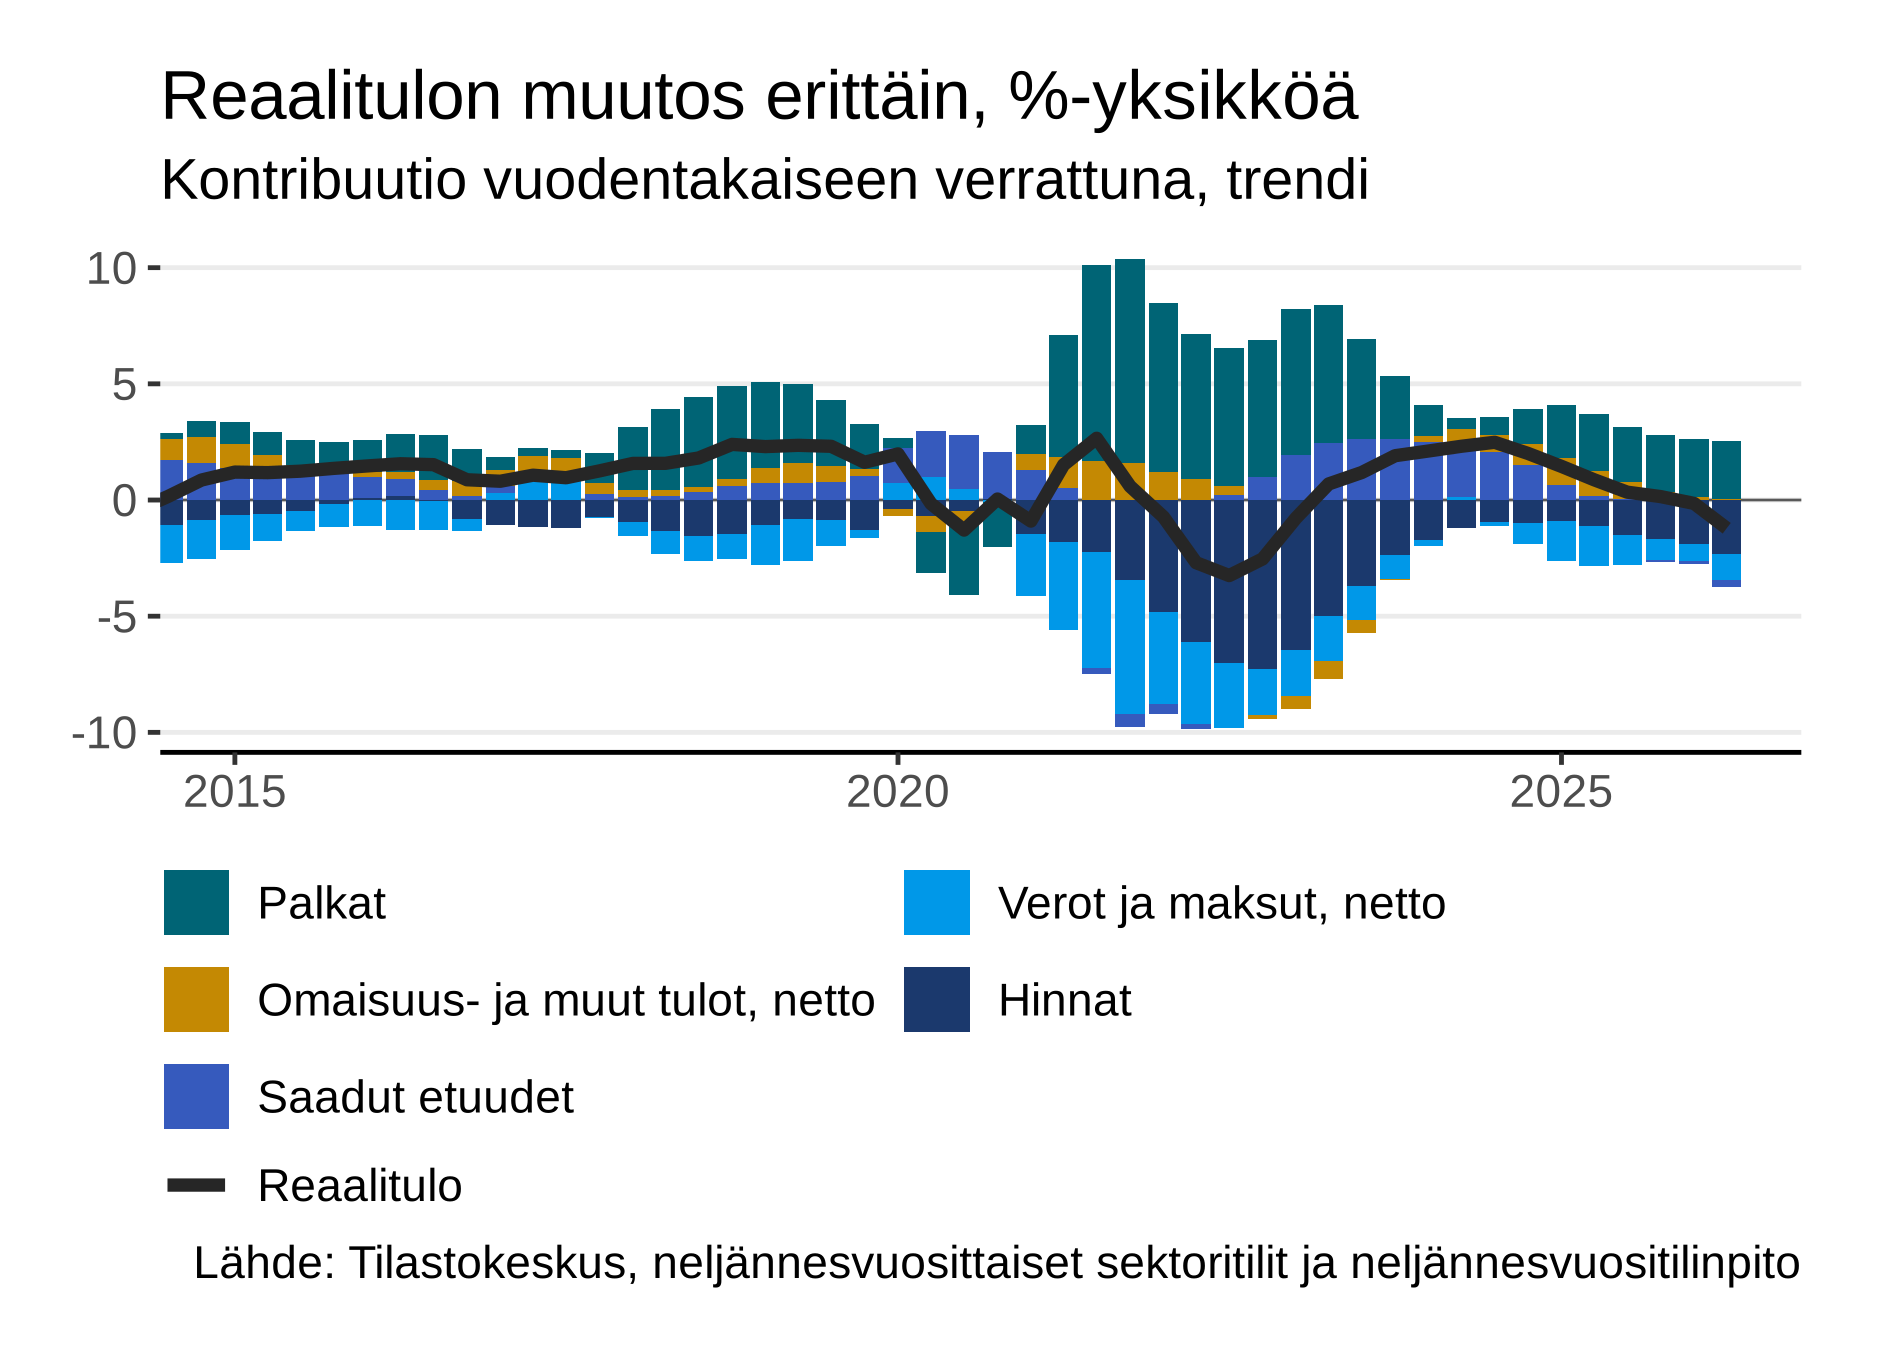
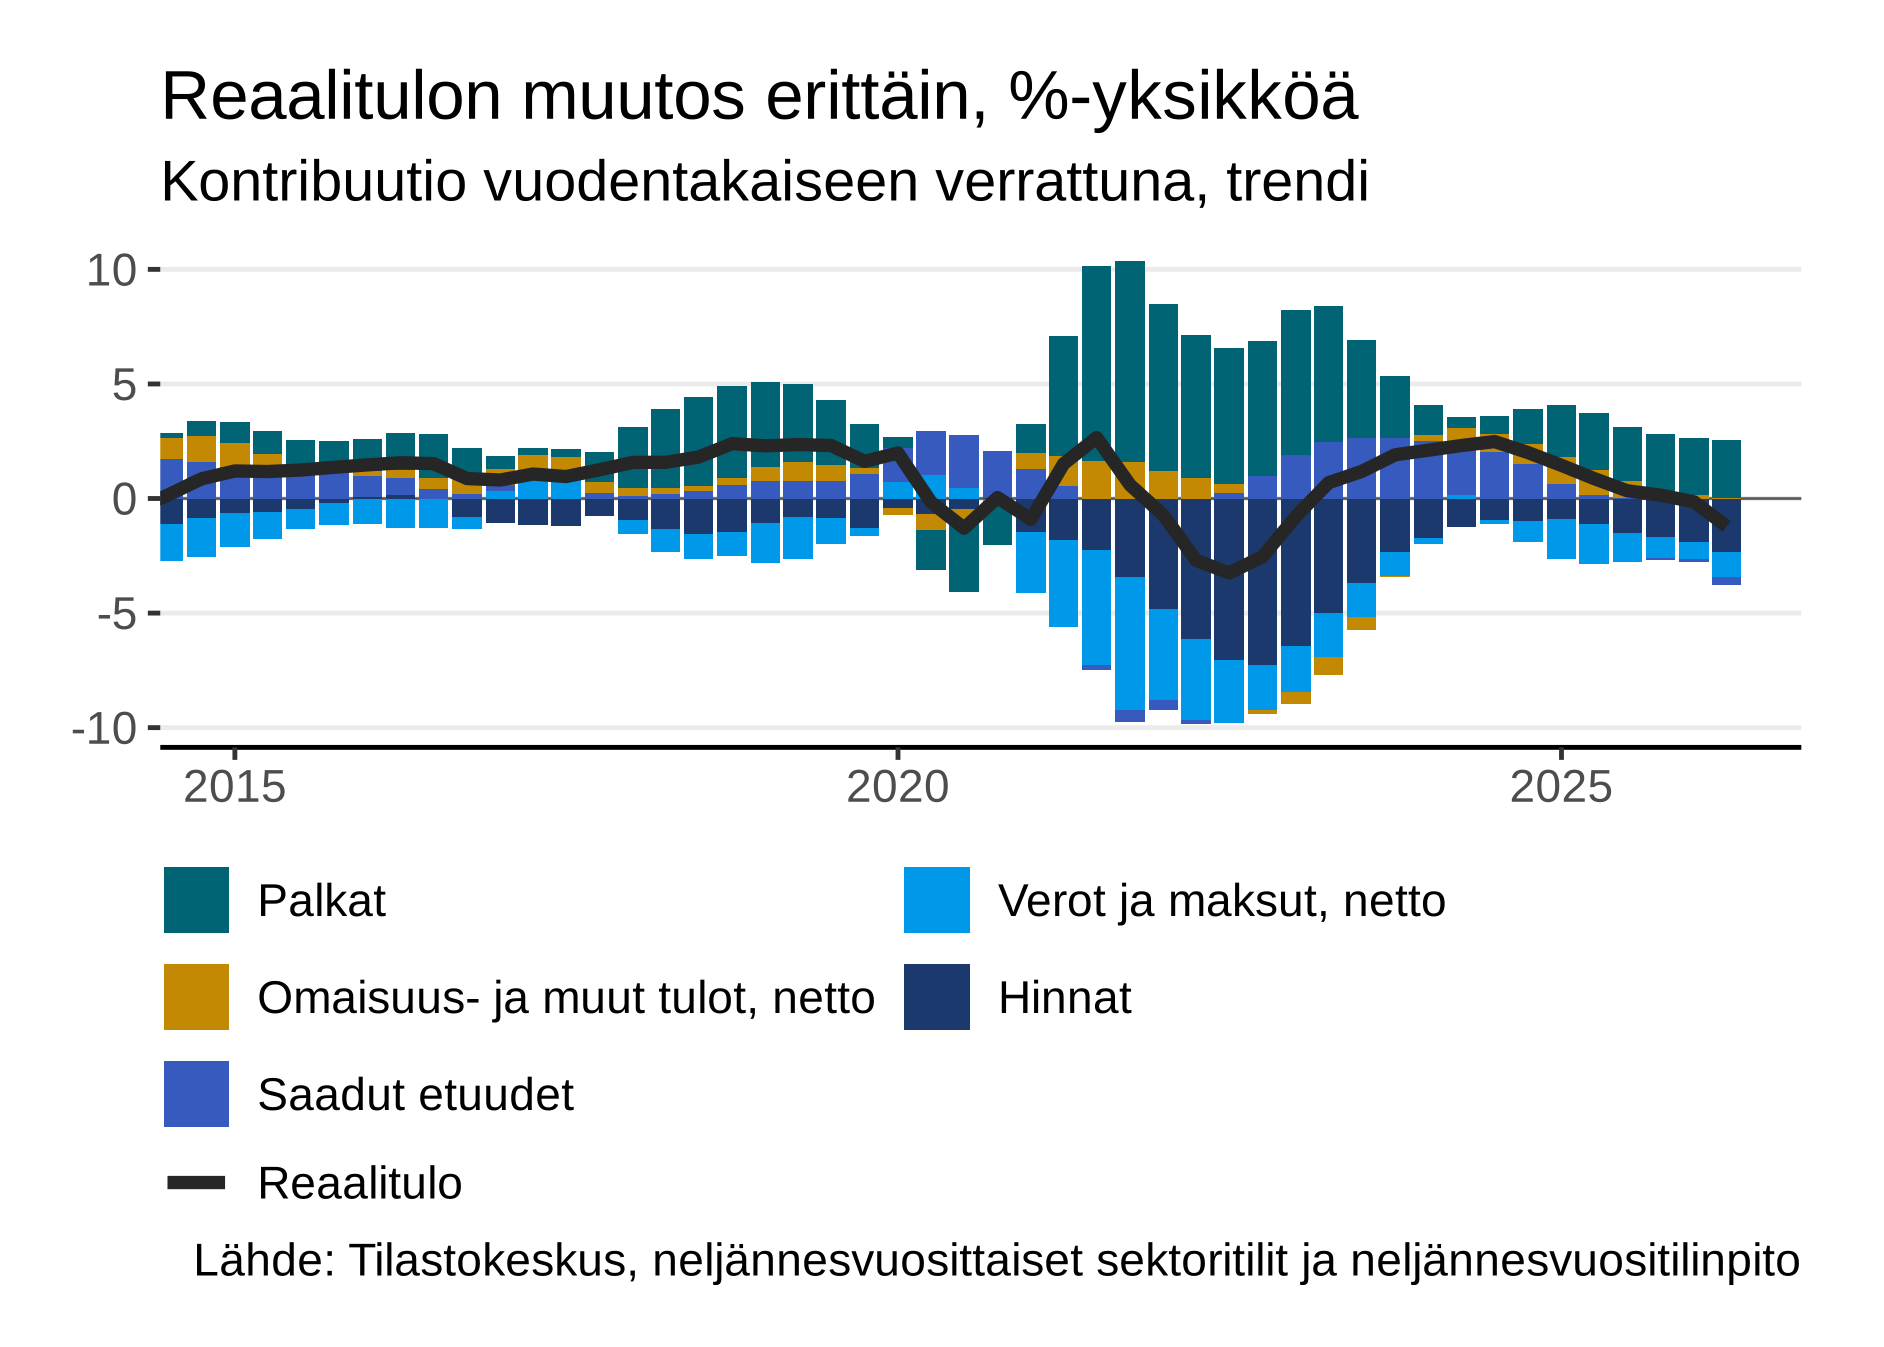
Sovita esityskuvion otsikko ja lähde kuvion leveyteen
visu_restyle() saa height-argumentin. Kun se annetaan, otsikko ja
alaotsikko jaetaan riveille, jos ne eivät mahdu, ja lähde tasataan
kuvion oikeaan reunaan, kun oikean reunan selite kaventaa piirtoalueen
niin, että lähde leikkautuisi. Tekstit mitataan samalla PNG-laitteella
ja mitoilla kuin ggsave piirtää kuvan. visu_chart_png() antaa korkeuden
aina, joten korjaus koskee kaikkia esityksiin renderöitäviä kuvioita.
Sivuston kuviot eivät muutu.

Claude-Session: https://claude.ai/code/session_012ftLSFWSVJtSiLFrthZi8q

diff --git a/.claude/skills/esitys/SKILL.md b/.claude/skills/esitys/SKILL.md
@@ -82,7 +82,11 @@ päivittyy itsestään.
   tekstit ovat 1.15-kertaisia ja viivat VM-määrittelyn paksuisia (1.5).
   Sivustolla viiva on ohuempi (0.8), eikä sitä muuteta. `visu_chart_png()`
   tekee tämän itse; omassa kuviossa käytä samoja asetuksia:
-  `visu_restyle(p, legend = "auto", scale = 1.15, linewidth = 1.5)`.
+  `visu_restyle(p, legend = "auto", scale = 1.15, linewidth = 1.5, height = 4.49)`.
+- **Pitkät tekstit sovitetaan** kuvion mittoihin, kun `visu_restyle()` saa
+  korkeuden (`visu_chart_png()` antaa sen aina): liian pitkä otsikko jaetaan
+  riveille, ja lähde, joka leikkautuisi oikean reunan selitteen takia,
+  tasataan kuvion oikeaan reunaan. Sivuston kuvioihin tämä ei vaikuta.
   Älä muuta teeman muita asetuksia (otsikon paikka, fonttikoot) ilman syytä.
 - **Lähde on kuvion sisällä** (ggplotin caption), joten dialle ei tarvita
   erillistä lähderiviä.
